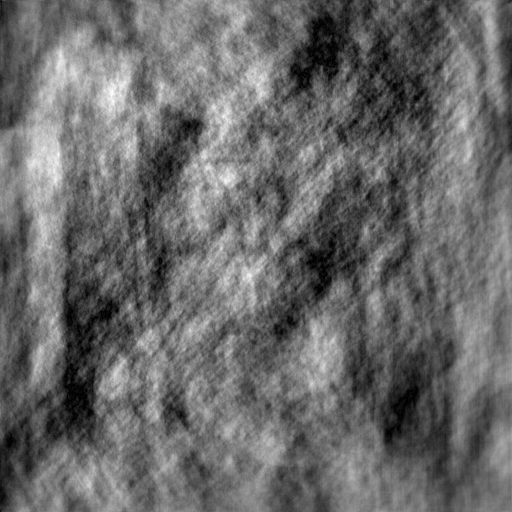
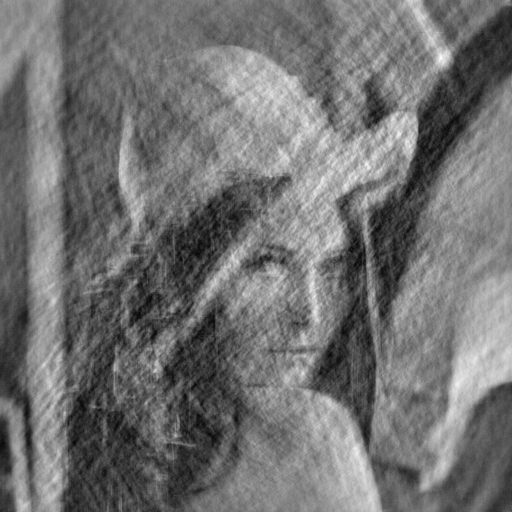
10*(20HIO+5ER)

diff --git a/core.py b/core.py
@@ -4,26 +4,53 @@ def FFT(data):
     '''
     傅里叶变换
     '''
-    return(np.fft.fftshift(np.fft.fft2(data)))
+    return(np.fft.fft2(data))
 
 def iFFT(data):
     '''
     傅里叶逆变换
     '''
-    return(np.fft.ifft2(np.fft.ifftshift(data)))
+    return(np.fft.ifft2(data))
 
 def ERcc(data,padding):
     '''
     ER算法的实空间约束条件
     '''
     data=data[padding[0]:-padding[0],padding[1]:-padding[1]]
-    for i in range(data.shape[0]):
-        for j in range(data.shape[1]):
-            if abs(data[i,j])<0:
-                data[i,j]==0
     data=np.pad(data,((padding[0],padding[1]),(padding[0],padding[1])),'constant')
     return(data)
+
+def HIOcc(data,temp,padding,beta):
+    '''
+    HIO算法的实空间约束条件
+    '''
+    inside=temp[padding[0]:-padding[0],padding[1]:-padding[1]]
+    insaide=np.pad(inside,((padding[0],padding[1]),(padding[0],padding[1])),'constant')
+    outside=data-beta*temp
+    for i in range(padding[0],outside.shape[0]-padding[0]):
+        for j in range(padding[1],outside.shape[1]-padding[1]):
+            outside[i,j]=0
+    return(insaide+outside) 
 
 def FScc(data,measurement):
     data=np.abs(measurement)*data/np.abs(data)
     return(data)
+
+def ER(realSpace,measurement,padding,t):
+    fourlieSpace=None
+    for i in range(t):
+        fourlieSpace=FFT(realSpace)
+        fourlieSpace=FScc(fourlieSpace,measurement)
+        realSpace=iFFT(fourlieSpace)
+        realSpace=ERcc(realSpace,padding)
+    return(realSpace)
+
+
+def HIO(realSpace,measurement,padding,beta,t):
+    fourlieSpace=None
+    for i in range(t):
+        fourlieSpace=FFT(realSpace)
+        fourlieSpace=FScc(fourlieSpace,measurement)
+        realSpaceTemp=iFFT(fourlieSpace)
+        realSpace=HIOcc(realSpace,realSpaceTemp,padding,beta)
+    return(realSpace)

diff --git a/main.py b/main.py
@@ -2,25 +2,25 @@ import fileioput as fio
 import core
 import numpy as np
 import matplotlib.pyplot as plt
-path="./data/Lenna_test.png"
-oversamplingRatio=3
-data=fio.readimage("./data/Lenna.png")
-padding=np.array(np.floor(np.array(data.shape)*(oversamplingRatio-1)*0.5),dtype='int64')
-data=np.pad(data,((padding[0],padding[1]),(padding[0],padding[1])),'constant')
-projection=np.abs(core.FFT(data))
-#noise=np.random.poisson(projection.shape[0],)
 
-fourlieSpace=projection
-realSpace=np.zeros((projection.shape[0],projection.shape[1]))
-for i in range(1000):
-    realSpace=core.iFFT(fourlieSpace)
-    realSpace=core.ERcc(realSpace,padding)
-    fourlieSpace=core.FFT(realSpace)
-    fourlieSpace=core.FScc(fourlieSpace,projection)
+path = "./data/Lenna_test.png"
+oversamplingRatio = 3
+data = fio.readimage("./data/Lenna.png")
+padding = np.array(np.floor(np.array(data.shape) *
+                            (oversamplingRatio-1)*0.5), dtype='int64')
+data = np.pad(data, ((padding[0], padding[1]),
+                     (padding[0], padding[1])), 'constant')
+projection = np.abs(core.FFT(data))
+# noise=np.random.poisson(projection.shape[0],)
+
+fourlieSpace = projection
+realSpace = core.iFFT(fourlieSpace)
+
+for i in range(10):
+    realSpace = core.HIO(realSpace, projection, padding, 0.5, 20)
+    realSpace = core.ER(realSpace, projection, padding, 5)
 
 
-
-
-projection=np.abs(realSpace[padding[0]:-padding[0],padding[1]:-padding[1]])
-fio.showimage(projection)
-fio.writeimage(projection,"./data/Lenna_test.png")
+projection = np.abs(realSpace[padding[0]:-padding[0], padding[1]:-padding[1]])
+# fio.showimage(projection)
+fio.writeimage(projection, "./data/Lenna_test.png")
